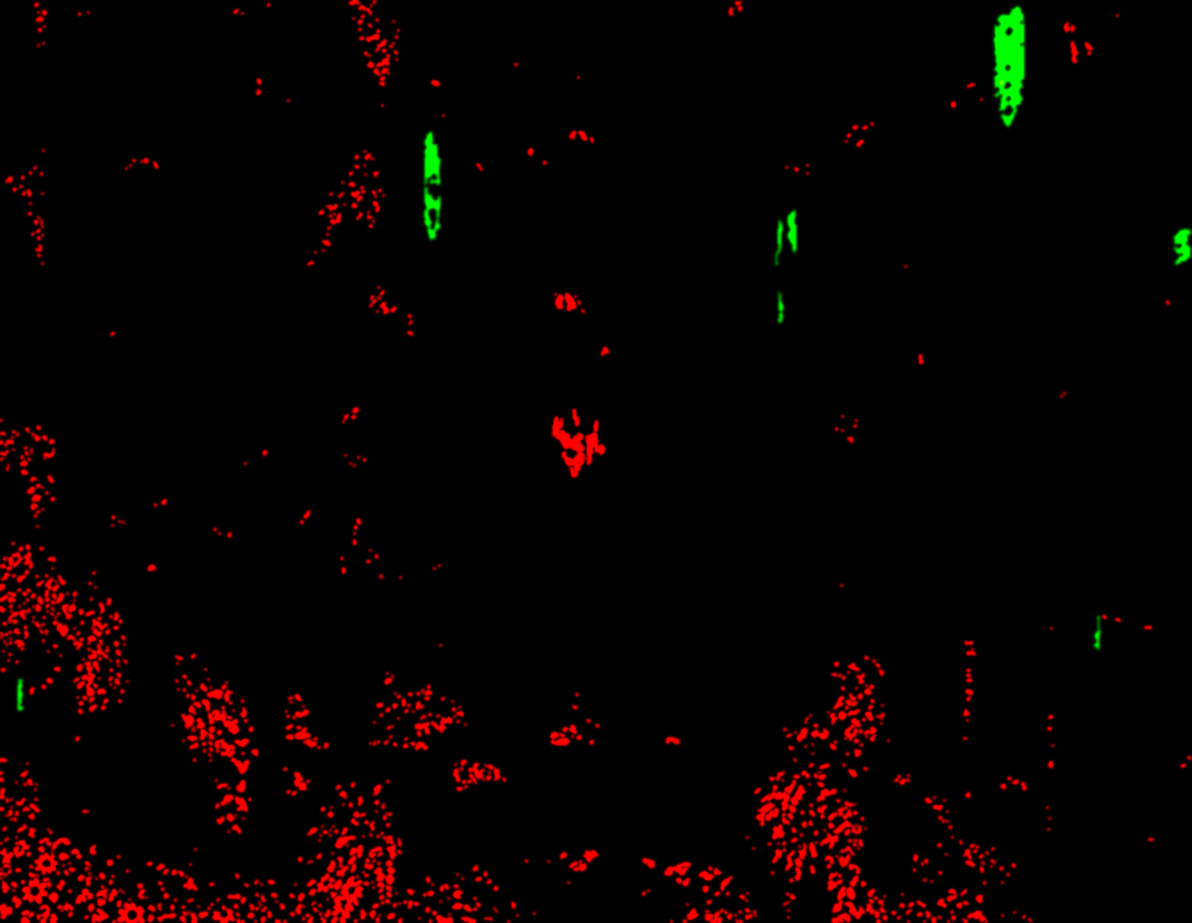
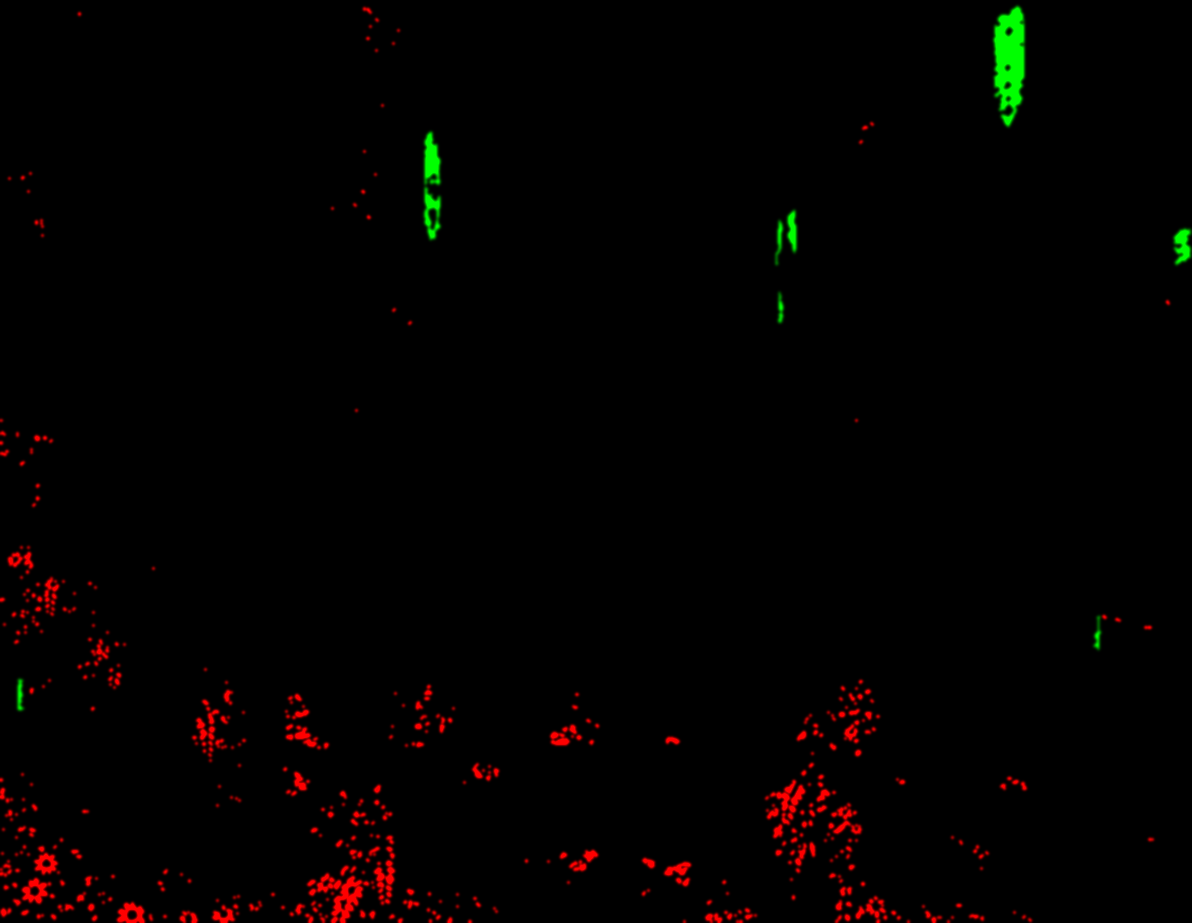
Forge Mountain built as a realm; life maps refined (real greens only, flowers where worlds have them, golden grass for Highlands and Wilds, distant hills stay still)

diff --git a/prototypes/p2-spikes/tools/build_life.py b/prototypes/p2-spikes/tools/build_life.py
@@ -86,9 +86,15 @@ hsv = np.asarray(s.convert("HSV")).astype(float) / 255
 h_, sat, val = hsv[..., 0], hsv[..., 1], hsv[..., 2]
 sky2 = np.asarray(Image.fromarray(sky.astype(np.uint8) * 255).resize(s.size, Image.NEAREST)) > 0
 water2 = np.asarray(Image.fromarray(water.astype(np.uint8) * 255).resize(s.size, Image.NEAREST)) > 0
-green = (h_ > 0.13) & (h_ < 0.45) & (sat > 0.25) & (val > 0.12)
+rgb2 = np.asarray(s).astype(float)
+green = (h_ > 0.16) & (h_ < 0.45) & (sat > 0.25) & (val > 0.12) & (rgb2[..., 1] > rgb2[..., 0] * 0.97)   # real greens, not gold
 flowers = (h_ > 0.68) & (h_ < 0.92) & (sat > 0.18) & (val > 0.35)            # wisteria, lilac blossoms
-foliage = (green | flowers) & ~sky2 & ~water2
+if hints.get("grass"):                                                     # golden grass and autumn leaves
+    green |= (h_ > 0.09) & (h_ <= 0.16) & (sat > 0.3) & (val > 0.2) & (rgb2[..., 1] > rgb2[..., 0] * 0.8)
+if not hints.get("flowers"): flowers = np.zeros_like(flowers)        # only worlds that have blossoms (wisteria, lotus)
+depth2 = np.asarray(Image.open(f"{A}/{rid}-world-depth.png").convert("L").resize(s.size, Image.BILINEAR)).astype(float) / 255
+near = depth2 > np.percentile(depth2, 35)                                  # far hills and mountains stay still
+foliage = (green | flowers) & ~sky2 & ~water2 & near
 foliage = nd.binary_opening(foliage, iterations=1)
 blue = (h_ > 0.55) & (h_ < 0.7) & (sat > 0.35) & (val > 0.18) & (val < 0.75)
 red = ((h_ < 0.02) | (h_ > 0.95)) & (sat > 0.5) & (val > 0.25) & (val < 0.8)
